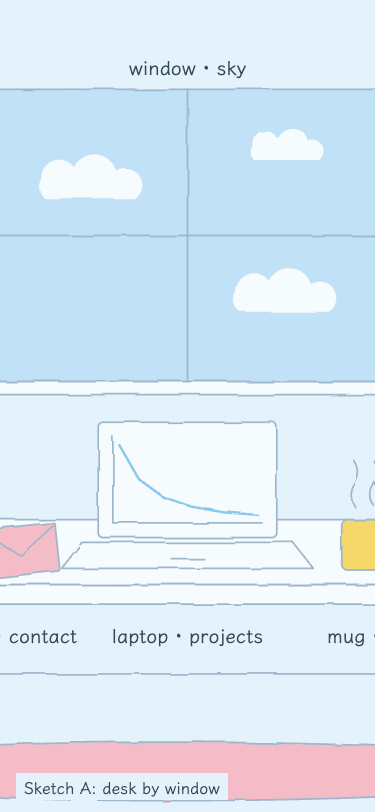
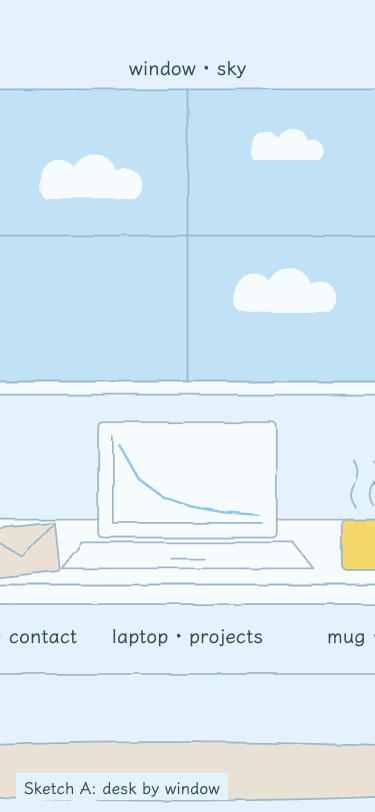
Sketches: swap pink and green fills for sand and stone neutrals

Changed region(s): [[0.0, 0.8929, 1.0, 0.9852], [0.0, 0.6466, 0.176, 0.7081]]

diff --git a/sketches/b-corner-shelf.html b/sketches/b-corner-shelf.html
@@ -46,12 +46,12 @@
       <!-- corkboard on the right wall -->
       <polygon class="l f-paper" points="700,220 1090,200 1090,470 700,462"/>
       <g transform="rotate(-5 765 276)"><rect class="l f-yellow" x="728" y="246" width="74" height="62" rx="2"/><line class="l" x1="740" y1="268" x2="788" y2="268"/><line class="l" x1="740" y1="284" x2="776" y2="284"/></g>
-      <g transform="rotate(4 870 270)"><rect class="l f-pink" x="832" y="238" width="78" height="66" rx="2"/><line class="l" x1="844" y1="262" x2="896" y2="262"/><line class="l" x1="844" y1="278" x2="882" y2="278"/></g>
-      <g transform="rotate(-3 1000 262)"><rect class="l f-green" x="964" y="232" width="72" height="60" rx="2"/><path class="l" d="M980,262 l9,9 l20,-22"/></g>
+      <g transform="rotate(4 870 270)"><rect class="l f-sand" x="832" y="238" width="78" height="66" rx="2"/><line class="l" x1="844" y1="262" x2="896" y2="262"/><line class="l" x1="844" y1="278" x2="882" y2="278"/></g>
+      <g transform="rotate(-3 1000 262)"><rect class="l f-stone" x="964" y="232" width="72" height="60" rx="2"/><path class="l" d="M980,262 l9,9 l20,-22"/></g>
       <g transform="rotate(3 790 392)"><rect class="l f-accent" x="746" y="356" width="88" height="72" rx="2"/><line class="l" x1="758" y1="380" x2="820" y2="380"/><line class="l" x1="758" y1="398" x2="804" y2="398"/></g>
       <g transform="rotate(-2 950 386)"><rect class="l f-sky" x="886" y="344" width="128" height="84" rx="2"/><polyline class="l" points="898,414 928,380 952,402 976,368 1002,414"/></g>
-      <circle class="l f-pink" cx="765" cy="248" r="5"/><circle class="l f-yellow" cx="870" cy="240" r="5"/>
-      <circle class="l f-accent" cx="1000" cy="234" r="5"/><circle class="l f-green" cx="790" cy="358" r="5"/><circle class="l f-pink" cx="950" cy="346" r="5"/>
+      <circle class="l f-sand" cx="765" cy="248" r="5"/><circle class="l f-yellow" cx="870" cy="240" r="5"/>
+      <circle class="l f-accent" cx="1000" cy="234" r="5"/><circle class="l f-stone" cx="790" cy="358" r="5"/><circle class="l f-sand" cx="950" cy="346" r="5"/>
 
       <polygon class="glow night-only" points="480,330 600,330 740,880 340,880"/>
     </g>
@@ -63,23 +63,23 @@
         <line class="l" x1="1180" y1="274" x2="1480" y2="264"/><line class="l" x1="1180" y1="398" x2="1480" y2="398"/>
         <line class="l" x1="1180" y1="522" x2="1480" y2="532"/><line class="l" x1="1180" y1="646" x2="1480" y2="666"/>
         <rect class="l f-accent" x="1200" y="181" width="22" height="92" rx="2"/><rect class="l f-sky" x="1224" y="192" width="20" height="80" rx="2"/>
-        <rect class="l f-yellow" x="1246" y="174" width="26" height="98" rx="2"/><rect class="l f-pink" x="1274" y="185" width="20" height="86" rx="2"/>
-        <rect class="l f-sky" x="1380" y="195" width="60" height="72" rx="2"/><circle class="l f-pink" cx="1410" cy="228" r="14"/>
-        <rect class="l f-pink" x="1200" y="298" width="24" height="100" rx="2"/><rect class="l f-accent" x="1226" y="310" width="20" height="88" rx="2"/>
+        <rect class="l f-yellow" x="1246" y="174" width="26" height="98" rx="2"/><rect class="l f-sand" x="1274" y="185" width="20" height="86" rx="2"/>
+        <rect class="l f-sky" x="1380" y="195" width="60" height="72" rx="2"/><circle class="l f-sand" cx="1410" cy="228" r="14"/>
+        <rect class="l f-sand" x="1200" y="298" width="24" height="100" rx="2"/><rect class="l f-accent" x="1226" y="310" width="20" height="88" rx="2"/>
         <rect class="l f-sky" x="1248" y="294" width="22" height="104" rx="2"/>
-        <rect class="l f-green" x="1330" y="374" width="100" height="24" rx="2"/><rect class="l f-yellow" x="1338" y="352" width="84" height="22" rx="2"/>
-        <rect class="l f-green" x="1200" y="427" width="26" height="96" rx="2"/><rect class="l f-yellow" x="1228" y="440" width="20" height="84" rx="2"/>
+        <rect class="l f-stone" x="1330" y="374" width="100" height="24" rx="2"/><rect class="l f-yellow" x="1338" y="352" width="84" height="22" rx="2"/>
+        <rect class="l f-stone" x="1200" y="427" width="26" height="96" rx="2"/><rect class="l f-yellow" x="1228" y="440" width="20" height="84" rx="2"/>
         <rect class="l f-sky" x="1250" y="422" width="24" height="102" rx="2"/><rect class="l f-accent" x="1276" y="435" width="22" height="90" rx="2"/>
-        <rect class="l f-pink" x="1400" y="435" width="24" height="94" rx="2"/><rect class="l f-green" x="1426" y="448" width="22" height="82" rx="2"/>
-        <rect class="l f-sky" x="1200" y="547" width="28" height="100" rx="2"/><rect class="l f-pink" x="1230" y="559" width="22" height="90" rx="2"/>
+        <rect class="l f-sand" x="1400" y="435" width="24" height="94" rx="2"/><rect class="l f-stone" x="1426" y="448" width="22" height="82" rx="2"/>
+        <rect class="l f-sky" x="1200" y="547" width="28" height="100" rx="2"/><rect class="l f-sand" x="1230" y="559" width="22" height="90" rx="2"/>
         <rect class="l f-accent" x="1254" y="545" width="24" height="106" rx="2"/>
         <rect class="l f-yellow" x="1380" y="603" width="60" height="56" rx="3"/>
-        <rect class="l f-pink" x="1200" y="700" width="120" height="76" rx="3"/><line class="l" x1="1240" y1="722" x2="1280" y2="722"/>
-        <rect class="l f-green" x="1420" y="698" width="24" height="96" rx="2"/><rect class="l f-sky" x="1446" y="713" width="22" height="84" rx="2"/>
+        <rect class="l f-sand" x="1200" y="700" width="120" height="76" rx="3"/><line class="l" x1="1240" y1="722" x2="1280" y2="722"/>
+        <rect class="l f-stone" x="1420" y="698" width="24" height="96" rx="2"/><rect class="l f-sky" x="1446" y="713" width="22" height="84" rx="2"/>
       </g>
 
       <!-- rug + desk -->
-      <ellipse class="l f-pink" cx="900" cy="940" rx="420" ry="36"/>
+      <ellipse class="l f-sand" cx="900" cy="940" rx="420" ry="36"/>
       <line class="l" x1="616" y1="752" x2="616" y2="930"/><line class="l" x1="1176" y1="752" x2="1176" y2="930"/>
       <line class="l" x1="680" y1="752" x2="680" y2="860"/><line class="l" x1="1126" y1="752" x2="1126" y2="868"/>
       <polygon class="l f-paper" points="660,640 1150,640 1200,730 590,730"/>
@@ -94,7 +94,7 @@
     <g id="objects">
       <!-- envelope + phone -->
       <g transform="rotate(-6 707 667)">
-        <rect class="l f-pink" x="664" y="640" width="86" height="54" rx="3"/>
+        <rect class="l f-sand" x="664" y="640" width="86" height="54" rx="3"/>
         <polyline class="l" points="664,642 707,672 750,642"/>
       </g>
       <polygon class="l f-accent" points="632,702 690,702 696,724 628,724"/>
@@ -116,10 +116,10 @@
 
     <g id="foreground">
       <!-- plant -->
-      <ellipse class="l f-green" cx="222" cy="800" rx="16" ry="46" transform="rotate(-28 222 800)"/>
-      <ellipse class="l f-green" cx="280" cy="790" rx="16" ry="48" transform="rotate(22 280 790)"/>
-      <ellipse class="l f-green" cx="250" cy="770" rx="15" ry="46"/>
-      <polygon class="l f-pink" points="204,850 296,850 284,950 216,950"/>
+      <ellipse class="l f-stone" cx="222" cy="800" rx="16" ry="46" transform="rotate(-28 222 800)"/>
+      <ellipse class="l f-stone" cx="280" cy="790" rx="16" ry="48" transform="rotate(22 280 790)"/>
+      <ellipse class="l f-stone" cx="250" cy="770" rx="15" ry="46"/>
+      <polygon class="l f-sand" points="204,850 296,850 284,950 216,950"/>
     </g>
   </g>
 

diff --git a/sketches/a-desk-by-window.html b/sketches/a-desk-by-window.html
@@ -45,12 +45,12 @@
       <!-- corkboard -->
       <rect class="l f-paper" x="100" y="180" width="320" height="230" rx="4"/>
       <g transform="rotate(-5 159 234)"><rect class="l f-yellow" x="124" y="204" width="70" height="60" rx="2"/><line class="l" x1="136" y1="226" x2="180" y2="226"/><line class="l" x1="136" y1="242" x2="170" y2="242"/></g>
-      <g transform="rotate(4 252 232)"><rect class="l f-pink" x="214" y="200" width="76" height="64" rx="2"/><line class="l" x1="226" y1="224" x2="276" y2="224"/><line class="l" x1="226" y1="240" x2="262" y2="240"/></g>
-      <g transform="rotate(-3 349 239)"><rect class="l f-green" x="314" y="210" width="70" height="58" rx="2"/><path class="l" d="M330,240 l9,9 l20,-22"/></g>
+      <g transform="rotate(4 252 232)"><rect class="l f-sand" x="214" y="200" width="76" height="64" rx="2"/><line class="l" x1="226" y1="224" x2="276" y2="224"/><line class="l" x1="226" y1="240" x2="262" y2="240"/></g>
+      <g transform="rotate(-3 349 239)"><rect class="l f-stone" x="314" y="210" width="70" height="58" rx="2"/><path class="l" d="M330,240 l9,9 l20,-22"/></g>
       <g transform="rotate(3 182 335)"><rect class="l f-accent" x="140" y="300" width="84" height="70" rx="2"/><line class="l" x1="152" y1="324" x2="210" y2="324"/><line class="l" x1="152" y1="342" x2="196" y2="342"/></g>
       <g transform="rotate(-2 310 336)"><rect class="l f-sky" x="250" y="296" width="120" height="80" rx="2"/><polyline class="l" points="262,362 290,330 312,350 334,318 358,362"/></g>
-      <circle class="l f-pink" cx="159" cy="206" r="5"/><circle class="l f-yellow" cx="252" cy="202" r="5"/>
-      <circle class="l f-accent" cx="349" cy="212" r="5"/><circle class="l f-green" cx="182" cy="302" r="5"/><circle class="l f-pink" cx="310" cy="298" r="5"/>
+      <circle class="l f-sand" cx="159" cy="206" r="5"/><circle class="l f-yellow" cx="252" cy="202" r="5"/>
+      <circle class="l f-accent" cx="349" cy="212" r="5"/><circle class="l f-stone" cx="182" cy="302" r="5"/><circle class="l f-sand" cx="310" cy="298" r="5"/>
     </g>
 
     <g id="furniture">
@@ -59,21 +59,21 @@
       <line class="l" x1="1290" y1="302" x2="1520" y2="302"/><line class="l" x1="1290" y1="434" x2="1520" y2="434"/>
       <line class="l" x1="1290" y1="566" x2="1520" y2="566"/><line class="l" x1="1290" y1="698" x2="1520" y2="698"/>
       <rect class="l f-accent" x="1306" y="206" width="22" height="96" rx="2"/><rect class="l f-sky" x="1330" y="192" width="18" height="110" rx="2"/>
-      <rect class="l f-yellow" x="1350" y="218" width="26" height="84" rx="2"/><rect class="l f-pink" x="1378" y="200" width="20" height="102" rx="2"/>
-      <rect class="l f-green" x="1400" y="212" width="24" height="90" rx="2"/><rect class="l f-accent" x="1436" y="206" width="20" height="96" rx="2" transform="rotate(12 1446 302)"/>
-      <rect class="l f-pink" x="1310" y="334" width="26" height="100" rx="2"/><rect class="l f-accent" x="1338" y="346" width="20" height="88" rx="2"/>
+      <rect class="l f-yellow" x="1350" y="218" width="26" height="84" rx="2"/><rect class="l f-sand" x="1378" y="200" width="20" height="102" rx="2"/>
+      <rect class="l f-stone" x="1400" y="212" width="24" height="90" rx="2"/><rect class="l f-accent" x="1436" y="206" width="20" height="96" rx="2" transform="rotate(12 1446 302)"/>
+      <rect class="l f-sand" x="1310" y="334" width="26" height="100" rx="2"/><rect class="l f-accent" x="1338" y="346" width="20" height="88" rx="2"/>
       <rect class="l f-sky" x="1360" y="328" width="22" height="106" rx="2"/>
-      <rect class="l f-green" x="1410" y="410" width="90" height="24" rx="2"/><rect class="l f-yellow" x="1416" y="388" width="80" height="22" rx="2"/>
-      <rect class="l f-green" x="1306" y="474" width="24" height="92" rx="2"/><rect class="l f-yellow" x="1332" y="462" width="22" height="104" rx="2"/>
+      <rect class="l f-stone" x="1410" y="410" width="90" height="24" rx="2"/><rect class="l f-yellow" x="1416" y="388" width="80" height="22" rx="2"/>
+      <rect class="l f-stone" x="1306" y="474" width="24" height="92" rx="2"/><rect class="l f-yellow" x="1332" y="462" width="22" height="104" rx="2"/>
       <rect class="l f-sky" x="1356" y="480" width="20" height="86" rx="2"/><rect class="l f-accent" x="1380" y="468" width="26" height="98" rx="2"/>
-      <rect class="l f-sky" x="1436" y="496" width="56" height="70" rx="2"/><circle class="l f-pink" cx="1464" cy="528" r="14"/>
-      <rect class="l f-sky" x="1310" y="598" width="30" height="100" rx="2"/><rect class="l f-pink" x="1342" y="608" width="22" height="90" rx="2"/>
+      <rect class="l f-sky" x="1436" y="496" width="56" height="70" rx="2"/><circle class="l f-sand" cx="1464" cy="528" r="14"/>
+      <rect class="l f-sky" x="1310" y="598" width="30" height="100" rx="2"/><rect class="l f-sand" x="1342" y="608" width="22" height="90" rx="2"/>
       <rect class="l f-accent" x="1366" y="590" width="24" height="108" rx="2"/><rect class="l f-yellow" x="1394" y="604" width="20" height="94" rx="2"/>
-      <rect class="l f-pink" x="1310" y="750" width="120" height="80" rx="3"/><line class="l" x1="1350" y1="772" x2="1390" y2="772"/>
-      <rect class="l f-green" x="1446" y="734" width="24" height="96" rx="2"/><rect class="l f-sky" x="1472" y="746" width="22" height="84" rx="2"/>
+      <rect class="l f-sand" x="1310" y="750" width="120" height="80" rx="3"/><line class="l" x1="1350" y1="772" x2="1390" y2="772"/>
+      <rect class="l f-stone" x="1446" y="734" width="24" height="96" rx="2"/><rect class="l f-sky" x="1472" y="746" width="22" height="84" rx="2"/>
 
       <!-- rug + desk -->
-      <ellipse class="l f-pink" cx="780" cy="950" rx="520" ry="36"/>
+      <ellipse class="l f-sand" cx="780" cy="950" rx="520" ry="36"/>
       <line class="l" x1="356" y1="744" x2="356" y2="944"/><line class="l" x1="1204" y1="744" x2="1204" y2="944"/>
       <line class="l" x1="420" y1="744" x2="420" y2="880"/><line class="l" x1="1140" y1="744" x2="1140" y2="880"/>
       <polygon class="l f-paper" points="390,640 1170,640 1240,720 320,720"/>
@@ -90,7 +90,7 @@
 
       <!-- envelope -->
       <g transform="rotate(-6 594 678)">
-        <rect class="l f-pink" x="548" y="648" width="92" height="60" rx="3"/>
+        <rect class="l f-sand" x="548" y="648" width="92" height="60" rx="3"/>
         <polyline class="l" points="548,650 594,684 640,650"/>
       </g>
 
@@ -114,10 +114,10 @@
 
     <g id="foreground">
       <!-- plant -->
-      <ellipse class="l f-green" cx="196" cy="800" rx="16" ry="46" transform="rotate(-28 196 800)"/>
-      <ellipse class="l f-green" cx="252" cy="790" rx="16" ry="48" transform="rotate(22 252 790)"/>
-      <ellipse class="l f-green" cx="224" cy="770" rx="15" ry="46"/>
-      <polygon class="l f-pink" points="178,850 270,850 258,950 190,950"/>
+      <ellipse class="l f-stone" cx="196" cy="800" rx="16" ry="46" transform="rotate(-28 196 800)"/>
+      <ellipse class="l f-stone" cx="252" cy="790" rx="16" ry="48" transform="rotate(22 252 790)"/>
+      <ellipse class="l f-stone" cx="224" cy="770" rx="15" ry="46"/>
+      <polygon class="l f-sand" points="178,850 270,850 258,950 190,950"/>
     </g>
   </g>
 

diff --git a/sketches/c-kitchen-table.html b/sketches/c-kitchen-table.html
@@ -26,12 +26,12 @@
       <!-- corkboard -->
       <rect class="l f-paper" x="90" y="150" width="290" height="230" rx="4"/>
       <g transform="rotate(-5 149 204)"><rect class="l f-yellow" x="114" y="174" width="70" height="60" rx="2"/><line class="l" x1="126" y1="196" x2="170" y2="196"/><line class="l" x1="126" y1="212" x2="160" y2="212"/></g>
-      <g transform="rotate(4 238 202)"><rect class="l f-pink" x="202" y="170" width="72" height="64" rx="2"/><line class="l" x1="214" y1="194" x2="262" y2="194"/><line class="l" x1="214" y1="210" x2="248" y2="210"/></g>
-      <g transform="rotate(-3 326 205)"><rect class="l f-green" x="294" y="178" width="64" height="56" rx="2"/><path class="l" d="M308,206 l8,8 l18,-20"/></g>
+      <g transform="rotate(4 238 202)"><rect class="l f-sand" x="202" y="170" width="72" height="64" rx="2"/><line class="l" x1="214" y1="194" x2="262" y2="194"/><line class="l" x1="214" y1="210" x2="248" y2="210"/></g>
+      <g transform="rotate(-3 326 205)"><rect class="l f-stone" x="294" y="178" width="64" height="56" rx="2"/><path class="l" d="M308,206 l8,8 l18,-20"/></g>
       <g transform="rotate(3 164 306)"><rect class="l f-accent" x="122" y="270" width="84" height="70" rx="2"/><line class="l" x1="134" y1="294" x2="192" y2="294"/><line class="l" x1="134" y1="312" x2="178" y2="312"/></g>
       <g transform="rotate(-2 290 306)"><rect class="l f-sky" x="232" y="266" width="116" height="80" rx="2"/><polyline class="l" points="244,332 272,300 294,320 316,288 338,332"/></g>
-      <circle class="l f-pink" cx="149" cy="176" r="5"/><circle class="l f-yellow" cx="238" cy="172" r="5"/>
-      <circle class="l f-accent" cx="326" cy="180" r="5"/><circle class="l f-green" cx="164" cy="272" r="5"/><circle class="l f-pink" cx="290" cy="268" r="5"/>
+      <circle class="l f-sand" cx="149" cy="176" r="5"/><circle class="l f-yellow" cx="238" cy="172" r="5"/>
+      <circle class="l f-accent" cx="326" cy="180" r="5"/><circle class="l f-stone" cx="164" cy="272" r="5"/><circle class="l f-sand" cx="290" cy="268" r="5"/>
 
       <!-- window -->
       <rect class="l f-window" x="450" y="90" width="450" height="350" rx="4"/>
@@ -55,15 +55,15 @@
       <polygon class="l f-paper" points="1120,250 1500,250 1500,262 1120,262"/>
       <polyline class="l" points="1150,262 1150,290 1178,262"/><polyline class="l" points="1470,262 1470,290 1442,262"/>
       <rect class="l f-accent" x="1140" y="154" width="24" height="96" rx="2"/><rect class="l f-sky" x="1166" y="166" width="20" height="84" rx="2"/>
-      <rect class="l f-yellow" x="1188" y="146" width="26" height="104" rx="2"/><rect class="l f-pink" x="1216" y="160" width="22" height="90" rx="2"/>
-      <rect class="l f-green" x="1240" y="152" width="24" height="98" rx="2"/><rect class="l f-accent" x="1276" y="158" width="20" height="92" rx="2" transform="rotate(12 1286 250)"/>
-      <rect class="l f-sky" x="1400" y="178" width="60" height="72" rx="2"/><circle class="l f-pink" cx="1430" cy="212" r="14"/>
+      <rect class="l f-yellow" x="1188" y="146" width="26" height="104" rx="2"/><rect class="l f-sand" x="1216" y="160" width="22" height="90" rx="2"/>
+      <rect class="l f-stone" x="1240" y="152" width="24" height="98" rx="2"/><rect class="l f-accent" x="1276" y="158" width="20" height="92" rx="2" transform="rotate(12 1286 250)"/>
+      <rect class="l f-sky" x="1400" y="178" width="60" height="72" rx="2"/><circle class="l f-sand" cx="1430" cy="212" r="14"/>
       <polygon class="l f-paper" points="1120,420 1500,420 1500,432 1120,432"/>
       <polyline class="l" points="1150,432 1150,460 1178,432"/><polyline class="l" points="1470,432 1470,460 1442,432"/>
-      <rect class="l f-green" x="1150" y="396" width="110" height="24" rx="2"/><rect class="l f-yellow" x="1158" y="374" width="92" height="22" rx="2"/>
-      <rect class="l f-pink" x="1300" y="320" width="26" height="100" rx="2"/><rect class="l f-sky" x="1328" y="332" width="22" height="88" rx="2"/>
+      <rect class="l f-stone" x="1150" y="396" width="110" height="24" rx="2"/><rect class="l f-yellow" x="1158" y="374" width="92" height="22" rx="2"/>
+      <rect class="l f-sand" x="1300" y="320" width="26" height="100" rx="2"/><rect class="l f-sky" x="1328" y="332" width="22" height="88" rx="2"/>
       <rect class="l f-accent" x="1352" y="312" width="24" height="108" rx="2"/><rect class="l f-yellow" x="1378" y="328" width="20" height="92" rx="2"/>
-      <rect class="l f-green" x="1402" y="324" width="26" height="96" rx="2"/>
+      <rect class="l f-stone" x="1402" y="324" width="26" height="96" rx="2"/>
 
       <!-- pendant lamp -->
       <line class="l" x1="1000" y1="0" x2="1000" y2="300"/>
@@ -80,10 +80,10 @@
       <polygon class="glow night-only" points="950,380 1050,380 1330,820 690,820"/>
 
       <!-- plant -->
-      <ellipse class="l f-green" cx="222" cy="606" rx="15" ry="42" transform="rotate(-28 222 606)"/>
-      <ellipse class="l f-green" cx="270" cy="598" rx="15" ry="44" transform="rotate(22 270 598)"/>
-      <ellipse class="l f-green" cx="246" cy="580" rx="14" ry="42"/>
-      <polygon class="l f-pink" points="200,660 292,660 280,750 212,750"/>
+      <ellipse class="l f-stone" cx="222" cy="606" rx="15" ry="42" transform="rotate(-28 222 606)"/>
+      <ellipse class="l f-stone" cx="270" cy="598" rx="15" ry="44" transform="rotate(22 270 598)"/>
+      <ellipse class="l f-stone" cx="246" cy="580" rx="14" ry="42"/>
+      <polygon class="l f-sand" points="200,660 292,660 280,750 212,750"/>
 
       <!-- laptop -->
       <rect class="l f-paper" x="440" y="470" width="300" height="190" rx="8"/>
@@ -100,7 +100,7 @@
 
       <!-- envelope + phone -->
       <g transform="rotate(-7 1185 732)">
-        <rect class="l f-pink" x="1120" y="690" width="130" height="84" rx="4"/>
+        <rect class="l f-sand" x="1120" y="690" width="130" height="84" rx="4"/>
         <polyline class="l" points="1120,693 1185,740 1250,693"/>
       </g>
       <polygon class="l f-accent" points="1296,716 1372,716 1394,768 1306,768"/>

diff --git a/sketches/_shared.css b/sketches/_shared.css
@@ -8,8 +8,8 @@
   --link: #2F6E99;
   --accent-sky: #8CC8EE;
   --yellow: #F4D86A;
-  --pink: #F3BCC6;
-  --green: #B5D98A;
+  --sand: #E9E1D3;
+  --stone: #C7D3DB;
 }
 :root[data-theme="night"] {
   --sky: #1C2733;
@@ -18,11 +18,11 @@
   --ink: #DDE9F3;
   --ink-soft: #9FB4C6;
   --link: #8CC8EE;
-  /* pastels about 15% less saturated */
+  /* fills about 15% less saturated */
   --accent-sky: #92C1DE;
   --yellow: #E6CF78;
-  --pink: #E6C0C8;
-  --green: #B3CF92;
+  --sand: #BDB5A8;
+  --stone: #7F93A5;
 }
 
 html, body { height: 100%; }
@@ -40,8 +40,8 @@ body {
 .f-sky { fill: var(--sky); }
 .f-paper { fill: var(--paper); }
 .f-yellow { fill: var(--yellow); }
-.f-pink { fill: var(--pink); }
-.f-green { fill: var(--green); }
+.f-sand { fill: var(--sand); }
+.f-stone { fill: var(--stone); }
 .f-accent { fill: var(--accent-sky); }
 .f-window { fill: var(--accent-sky); fill-opacity: .4; }
 :root[data-theme="night"] .f-window { fill: var(--paper); fill-opacity: 1; }
